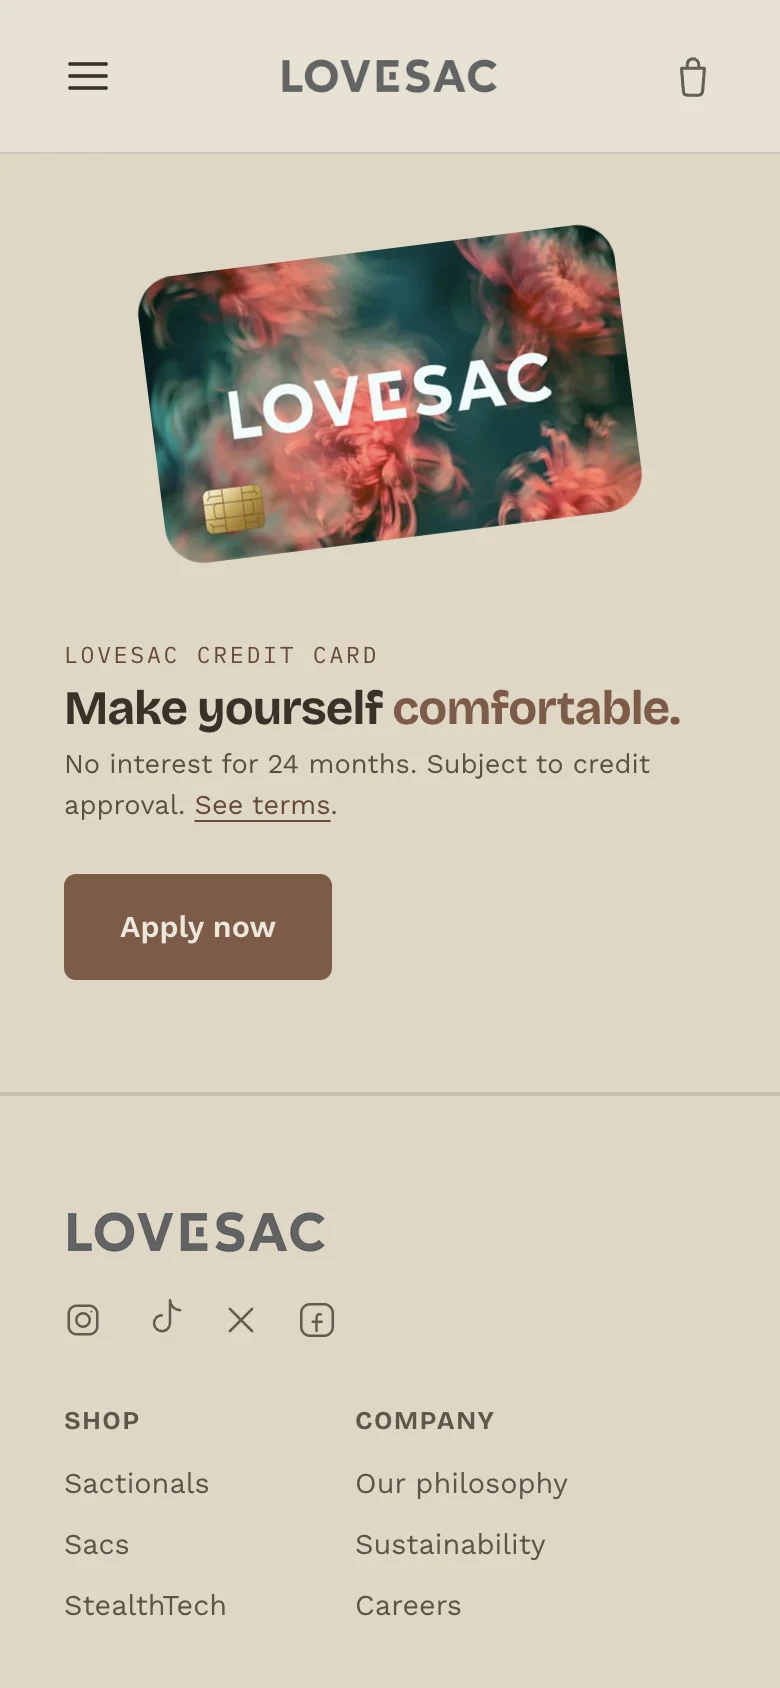
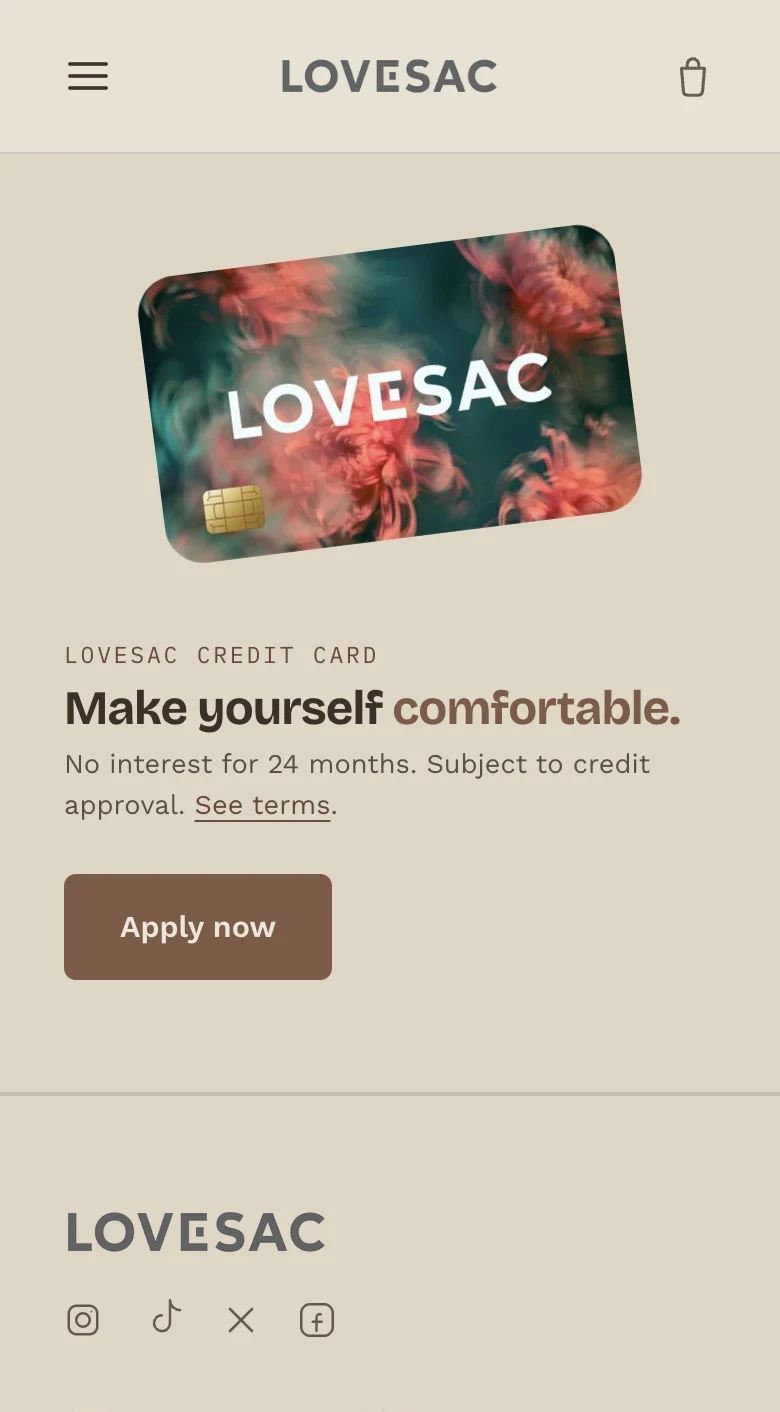
Fix gift card black corner artifact; match credit card comparison heights
lovesac-egift-card.webp had transparent rounded corners baked into the
source PNG that flattened to solid black on WebP conversion, showing
as a black fringe against the CSS's own border-radius clip. Flattened
the new asset onto the card's teal fill instead, so it's a plain
rectangle and CSS handles all the rounding.

Cropped the redesign credit card screenshot's bottom (keeping the top)
to match the original's aspect ratio, so both phone frames in that
comparison render at the same height.

Claude-Session: https://claude.ai/code/session_01HUof8H12PfyFTaoqJuiQ75

diff --git a/work/lovesac-case-study-2.html b/work/lovesac-case-study-2.html
@@ -1070,7 +1070,7 @@
       </div>
       <div class="nav-col after">
         <div class="nav-label"><span class="sw"></span>Redesign — Lovesac Credit Card</div>
-        <div class="phone-frame-wide"><img src="/images/lovesac-financing-after.webp" width="780" height="1688" loading="lazy" decoding="async" alt="Redesigned Lovesac mobile page showing the full Lovesac Credit Card band with a card image, the headline 'Make yourself comfortable,' financing terms, and an Apply now button, followed by the site footer."></div>
+        <div class="phone-frame-wide"><img src="/images/lovesac-financing-after.webp" width="780" height="1412" loading="lazy" decoding="async" alt="Redesigned Lovesac mobile page showing the full Lovesac Credit Card band with a card image, the headline 'Make yourself comfortable,' financing terms, and an Apply now button, followed by the site footer."></div>
       </div>
     </div>
     <p class="nav-note">On the original homepage, the offer is easy to overlook. It appears as a text link with no supporting imagery, headline, or explanation of the financing terms until the customer follows the link. For a $1,000+ purchase, that makes a potentially useful path to purchase feel like secondary promotional content.</p>
